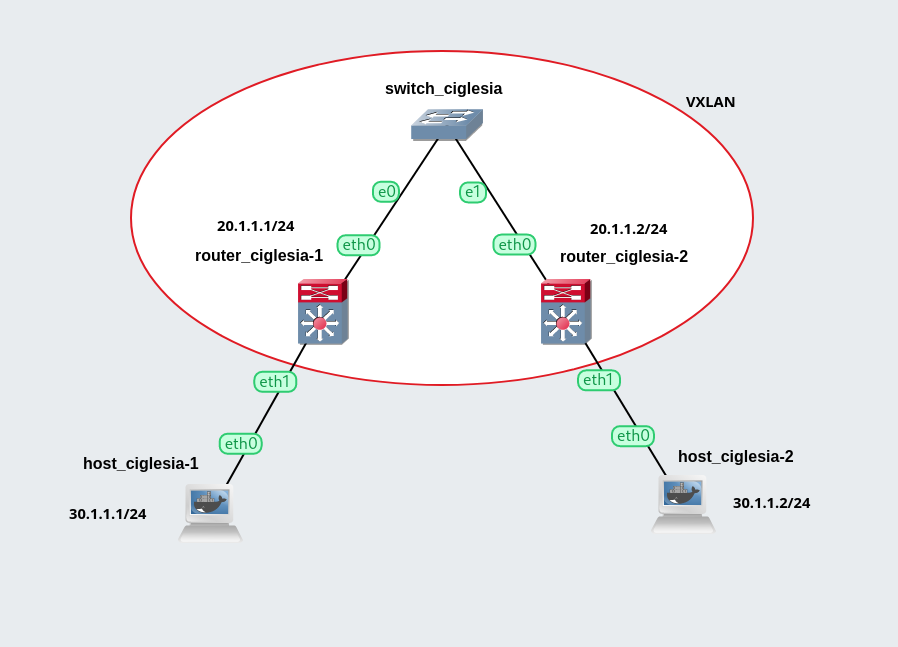
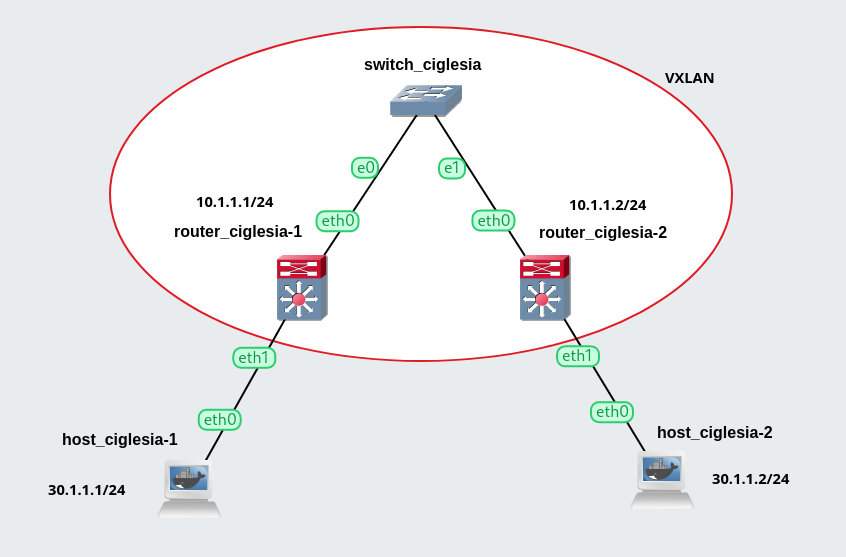
[p2 p3] correct ip addr

diff --git a/P2/README.md b/P2/README.md
@@ -63,12 +63,12 @@ ip address add <ip_address>/<mask> dev <interface_name>
 
 #### Router-1 IP Address
 ```bash
-ip address add 20.1.1.1/24 dev eth0
+ip address add 10.1.1.1/24 dev eth0
 ```
 
 #### Router-2 IP Address
 ```bash
-ip address add 20.1.1.2/24 dev eth0
+ip address add 10.1.1.2/24 dev eth0
 ```
 
 #### Host-1 IP Address
@@ -144,7 +144,7 @@ Static VXLAN configuration is a method where each VTEP is manually configured wi
 
 #### Router-1 (VTEP)
 ```bash
-ip link add name vxlan10 type vxlan id 10 remote 20.1.1.2 dstport 4789 dev eth0
+ip link add name vxlan10 type vxlan id 10 remote 10.1.1.2 dstport 4789 dev eth0
 ip link add name br0 type bridge
 ip link set br0 up
 ip link set vxlan10 up
@@ -154,7 +154,7 @@ ip link set eth1 master br0
 
 #### Router-2 (VTEP)
 ```bash
-ip link add name vxlan10 type vxlan id 10 remote 20.1.1.1 dstport 4789 dev eth0
+ip link add name vxlan10 type vxlan id 10 remote 10.1.1.1 dstport 4789 dev eth0
 ip link add name br0 type bridge
 ip link set br0 up
 ip link set vxlan10 up

diff --git a/P3/README.md b/P3/README.md
@@ -256,19 +256,19 @@ router ospf
 #### Host-1
 
 ```bash
-ip address add 30.1.1.1/24 dev eth0
+ip address add 20.1.1.1/24 dev eth0
 ```
 
 #### Host-2
 
 ```bash
-ip address add 30.1.1.2/24 dev eth0
+ip address add 20.1.1.2/24 dev eth0
 ```
 
 #### Host-3
 
 ```bash
-ip address add 30.1.1.3/24 dev eth0
+ip address add 20.1.1.3/24 dev eth0
 ```
 
 ## Configuration Explanation
